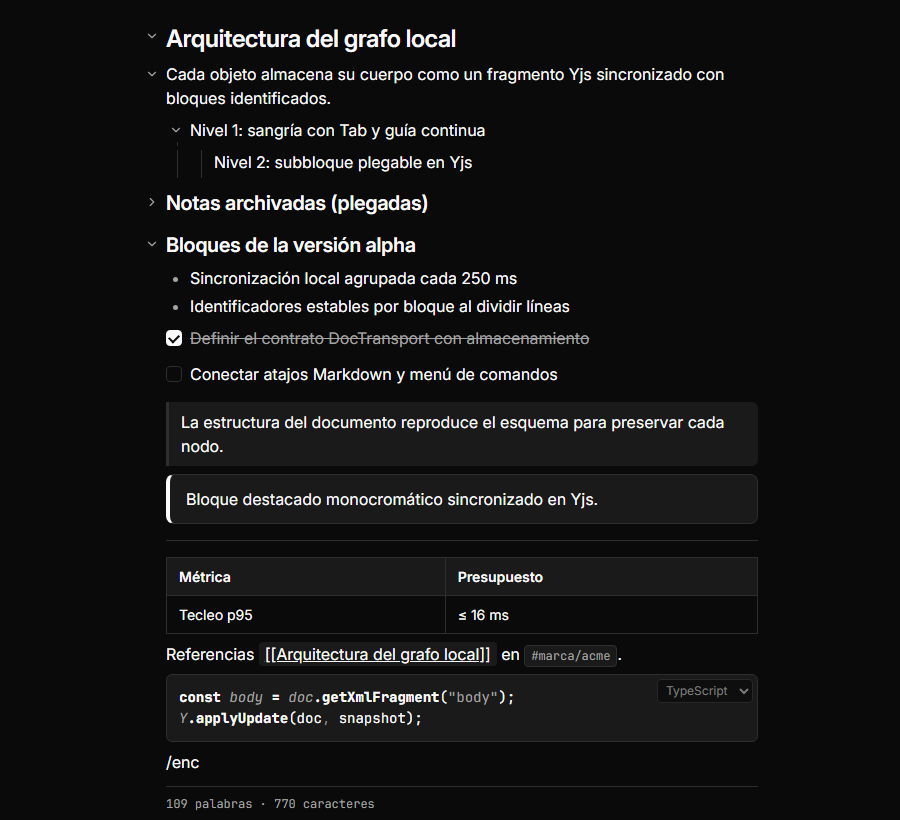
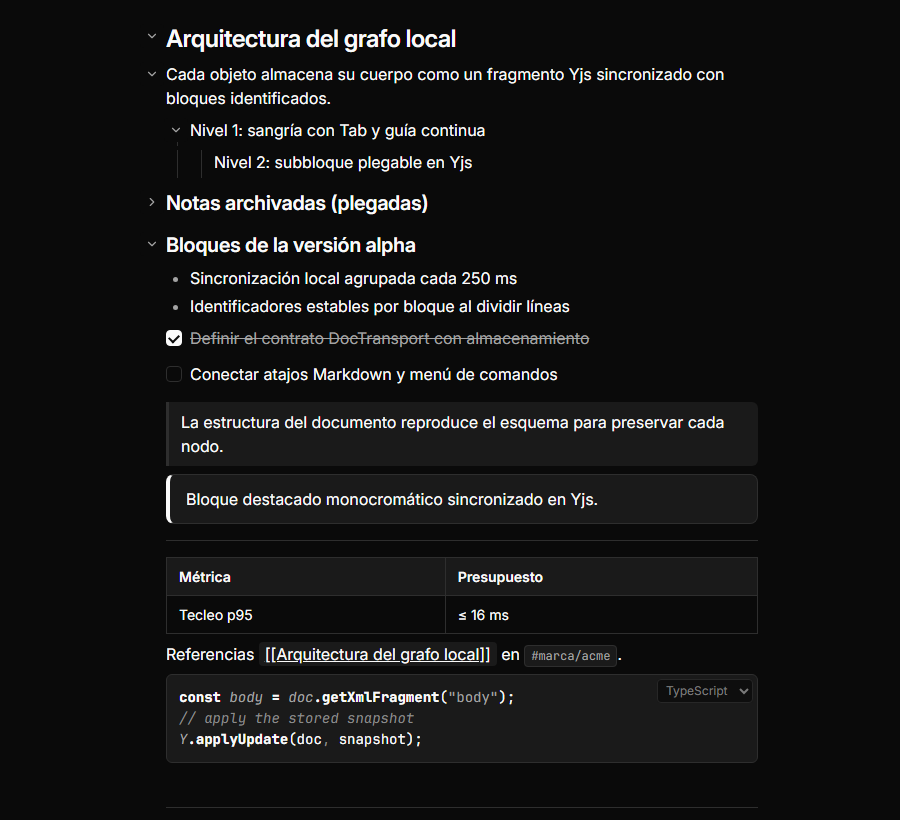
fix(editor): AA contrast for faint tokens, no retry of failed grammars, grammar coverage test (#144)
Agent: claude (Claude Code, Sonnet 5.5)

Changed region(s): [[0.1867, 0.8537, 0.4667, 0.9146], [0.1867, 0.9756, 0.4356, 1.0], [0.1867, 0.9146, 0.2178, 0.9451]]

diff --git a/packages/editor/src/code-highlight.ts b/packages/editor/src/code-highlight.ts
@@ -25,6 +25,9 @@ export const codeHighlightKey = new PluginKey<HighlightState>("fossilCodeHighlig
 
 let engine: CodeEngine | null = null;
 let enginePromise: Promise<CodeEngine> | null = null;
+let engineFailed = false;
+/** Grammars that failed to load: they stay plain instead of retrying on every transaction. */
+const failedLanguages = new Set<string>();
 
 /** Loads the highlighter on first use; the dynamic import keeps it out of the initial chunk. */
 function loadEngine(): Promise<CodeEngine> {
@@ -54,7 +57,7 @@ function compute(state: EditorState): HighlightState {
     if (node.type.name !== "codeBlock") return node.isTextblock ? false : true;
     hasCode = true;
     const lang = normalizeLanguage(node.attrs.language);
-    if (lang === null || node.content.size === 0) return false;
+    if (lang === null || node.content.size === 0 || failedLanguages.has(lang)) return false;
     if (engine === null || !engine.has(lang)) {
       missing.add(lang);
       return false;
@@ -94,23 +97,29 @@ export const CodeHighlight = Extension.create({
           let pending = false;
           const ensure = () => {
             const s = codeHighlightKey.getState(view.state);
-            if (s === undefined || !s.hasCode || pending) return;
-            if (engine !== null && s.missing.size === 0) return;
+            // Only blocks with a supported language need the engine; plain text never loads it.
+            if (s === undefined || s.missing.size === 0 || pending || engineFailed) return;
             pending = true;
             void loadEngine()
               .then(async (eng) => {
                 const wanted = codeHighlightKey.getState(view.state)?.missing ?? new Set<string>();
-                await Promise.all([...wanted].map((l) => eng.load(l)));
+                await Promise.all(
+                  [...wanted].map((l) =>
+                    eng.load(l).catch(() => {
+                      /* cosmetic: that language stays plain and is not retried */
+                      failedLanguages.add(l);
+                    }),
+                  ),
+                );
+                return true;
               })
               .catch(() => {
-                /* highlighting is cosmetic: stay plain if a grammar fails to load */
-                pending = false;
-                return "failed" as const;
+                engineFailed = true;
+                return false;
               })
-              .then((r) => {
-                if (r === "failed") return;
+              .then((ok) => {
                 pending = false;
-                if (!view.isDestroyed)
+                if (ok && !view.isDestroyed)
                   view.dispatch(
                     view.state.tr.setMeta(REFRESH, true).setMeta("addToHistory", false),
                   );

diff --git a/packages/editor/src/playground.tsx b/packages/editor/src/playground.tsx
@@ -47,7 +47,7 @@ const buildPlanUpdate = (): Uint8Array => {
 };
 
 /** Builds a deterministic, neutral sample Yjs document showcasing all alpha block types. */
-const buildSampleUpdate = (openLinks = false): Uint8Array => {
+const buildSampleUpdate = (openLinks = false, showSlash = true): Uint8Array => {
   const doc = new Y.Doc();
   const bullets = new Y.XmlElement("bulletList");
   setAttr(bullets, "blockId", "blk_ul");
@@ -125,10 +125,14 @@ const buildSampleUpdate = (openLinks = false): Uint8Array => {
     textEl(
       "codeBlock",
       "blk_code",
-      'const body = doc.getXmlFragment("body");\nY.applyUpdate(doc, snapshot);',
+      'const body = doc.getXmlFragment("body");\n// apply the stored snapshot\nY.applyUpdate(doc, snapshot);',
       { language: "typescript" },
     ),
-    textEl("paragraph", "blk_slash", openLinks ? "Enlazar [[Campaña Acme" : "/enc"),
+    textEl(
+      "paragraph",
+      "blk_slash",
+      openLinks ? "Enlazar [[Campaña Acme" : showSlash ? "/enc" : "",
+    ),
   ]);
   return Y.encodeStateAsUpdate(doc);
 };
@@ -145,16 +149,17 @@ function PlaygroundApp() {
     params.get("theme") === "dark" ? "dark" : "light",
   );
   const openLinks = params.get("links") === "1";
+  const showSlash = params.get("slash") !== "0";
   const plan = params.get("plan") === "1";
-  const openMenu = !plan && (openLinks || params.get("slash") !== "0");
+  const openMenu = !plan && (openLinks || showSlash);
 
   const doc = useMemo(() => new Y.Doc(), []);
   const transport = useMemo<DocTransport>(
     () => ({
-      load: async () => (plan ? buildPlanUpdate() : buildSampleUpdate(openLinks)),
+      load: async () => (plan ? buildPlanUpdate() : buildSampleUpdate(openLinks, showSlash)),
       apply: async () => {},
     }),
-    [openLinks, plan],
+    [openLinks, plan, showSlash],
   );
 
   const handleReady = (editor: Editor) => {
@@ -192,5 +197,13 @@ if (rootEl !== null) {
     <StrictMode>
       <PlaygroundApp />
     </StrictMode>,
+  );
+}
+
+// `?focus=code` focuses the first code block language selector (focus capture, #144).
+if (new URLSearchParams(window.location.search).get("focus") === "code") {
+  window.setTimeout(
+    () => document.querySelector<HTMLSelectElement>(".fossil-code-language")?.focus(),
+    800,
   );
 }

diff --git a/packages/editor/src/code-highlight.test.tsx b/packages/editor/src/code-highlight.test.tsx
@@ -4,6 +4,7 @@ import { afterEach, describe, expect, it, vi } from "vitest";
 import * as Y from "yjs";
 import { CodeBlockLanguage } from "./code-block";
 import { codeHighlightKey } from "./code-highlight";
+import { CODE_LANGUAGES } from "./code-languages";
 import { getBodyFragment } from "./editor";
 import { YSync } from "./y-sync";
 
@@ -42,5 +43,13 @@ describe("lazy highlighter (#144)", () => {
         timeout: 15_000,
       },
     );
+  });
+});
+
+describe("grammar coverage (#144)", () => {
+  it("has a loader for every language the selector offers", async () => {
+    const { HIGHLIGHT_LANGUAGES } =
+      await vi.importActual<typeof import("./code-highlighter")>("./code-highlighter");
+    expect([...HIGHLIGHT_LANGUAGES].sort()).toEqual(CODE_LANGUAGES.map((l) => l.id).sort());
   });
 });

diff --git a/packages/editor/src/code-highlighter.ts b/packages/editor/src/code-highlighter.ts
@@ -35,6 +35,9 @@ const LOADERS: Readonly<Record<string, GrammarLoader>> = {
   php: () => import("shiki/dist/langs/php.mjs"),
 };
 
+/** Language ids that have a grammar loader (checked against `CODE_LANGUAGES` in tests). */
+export const HIGHLIGHT_LANGUAGES: readonly string[] = Object.keys(LOADERS);
+
 /** A highlighted run, relative to the start of the code text. `kind` is the token class suffix. */
 export interface CodeSpan {
   from: number;

diff --git a/packages/editor/styles/editor.css b/packages/editor/styles/editor.css
@@ -175,7 +175,8 @@
   position: relative;
   --tok-fg: var(--fg);
   --tok-soft: var(--fg-muted);
-  --tok-faint: light-dark(#737373, #8a8a8a);
+  /* Contrast on --bg-elevated (AA 4.5:1): #6b6b6b on #f5f5f5 = 4.9, #8a8a8a on #1a1a1a = 5.0 */
+  --tok-faint: light-dark(#6b6b6b, #8a8a8a);
 }
 
 .fossil-code-bar {
